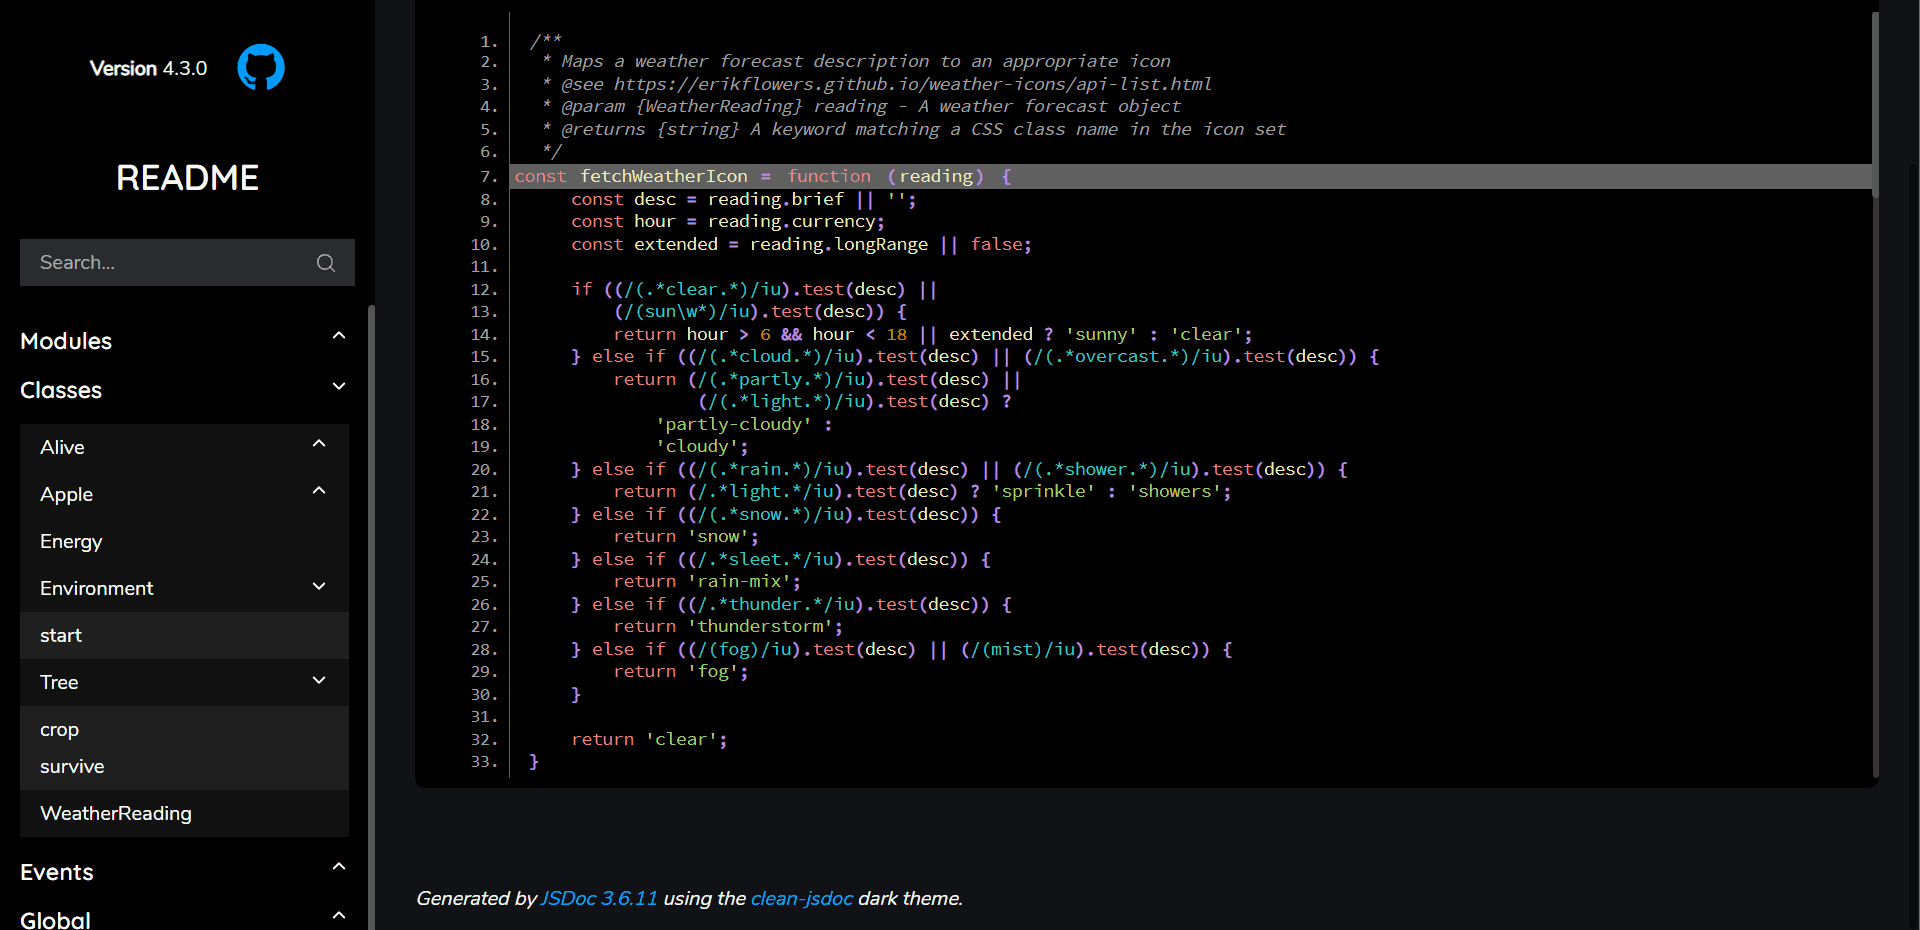
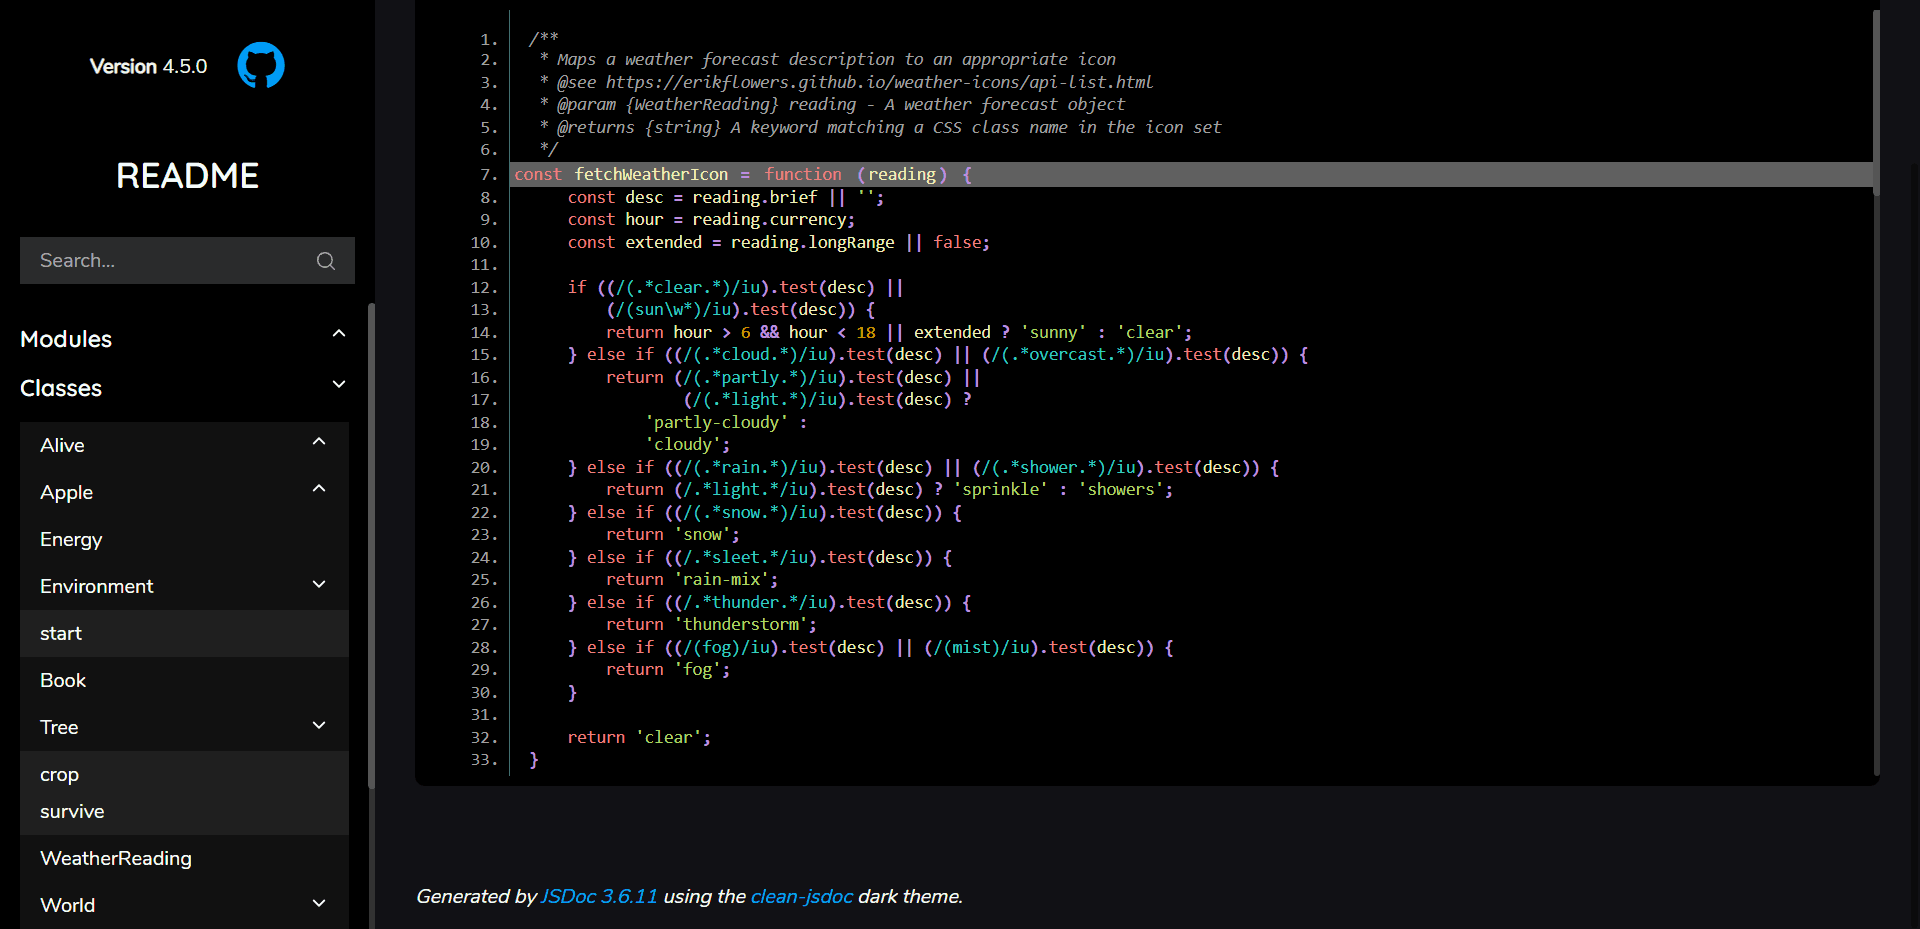
Release 4.5.0

diff --git a/README.md b/README.md
@@ -173,7 +173,7 @@ Details of your project, e.g.
 ```json
   "project": {
       "title": "clean-jsdoc",
-      "version": "4.0.0",
+      "version": "4.5.0",
       "repo": "https://github.com/clean-jsdoc/clean-jsdoc-es5"
   }
 ```
@@ -232,7 +232,7 @@ A list of hyperlinks to add to the navigation bar, e.g.
   "menu": [
     {
       "title": "Website",
-      "link": "https://rdipardo.bitbucket.io,
+      "link": "https://rdipardo.bitbucket.io",
       "target": "_blank",
       "class": "some-class",
       "id": "some-id"

diff --git a/CHANGELOG.md b/CHANGELOG.md
@@ -1,3 +1,16 @@
+## 4.5.0
+
+### BREAKING CHANGE
+- rename package to `@clean-jsdoc/clean-jsdoc-es5`
+
+### Added
+- displaying module names in top-level headings is now optional [a132d0d] (ported from upstream)
+
+### Fixed
+- the comma between source files and line references is now hyperlink style
+
+[a132d0d]: https://github.com/clean-jsdoc/clean-jsdoc-es5/commit/a132d0d
+
 ## 4.4.0
 
 ### Fixed
